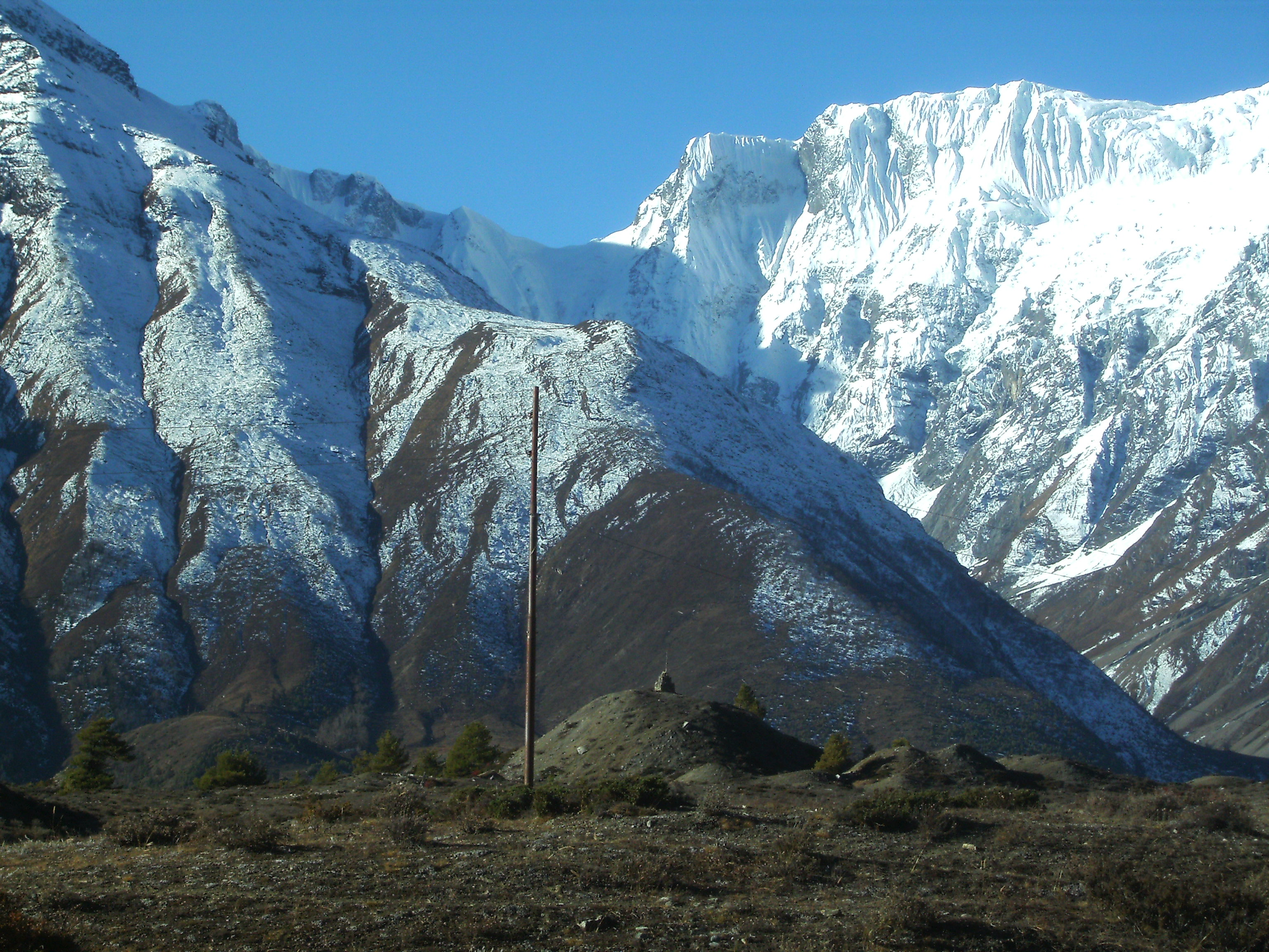
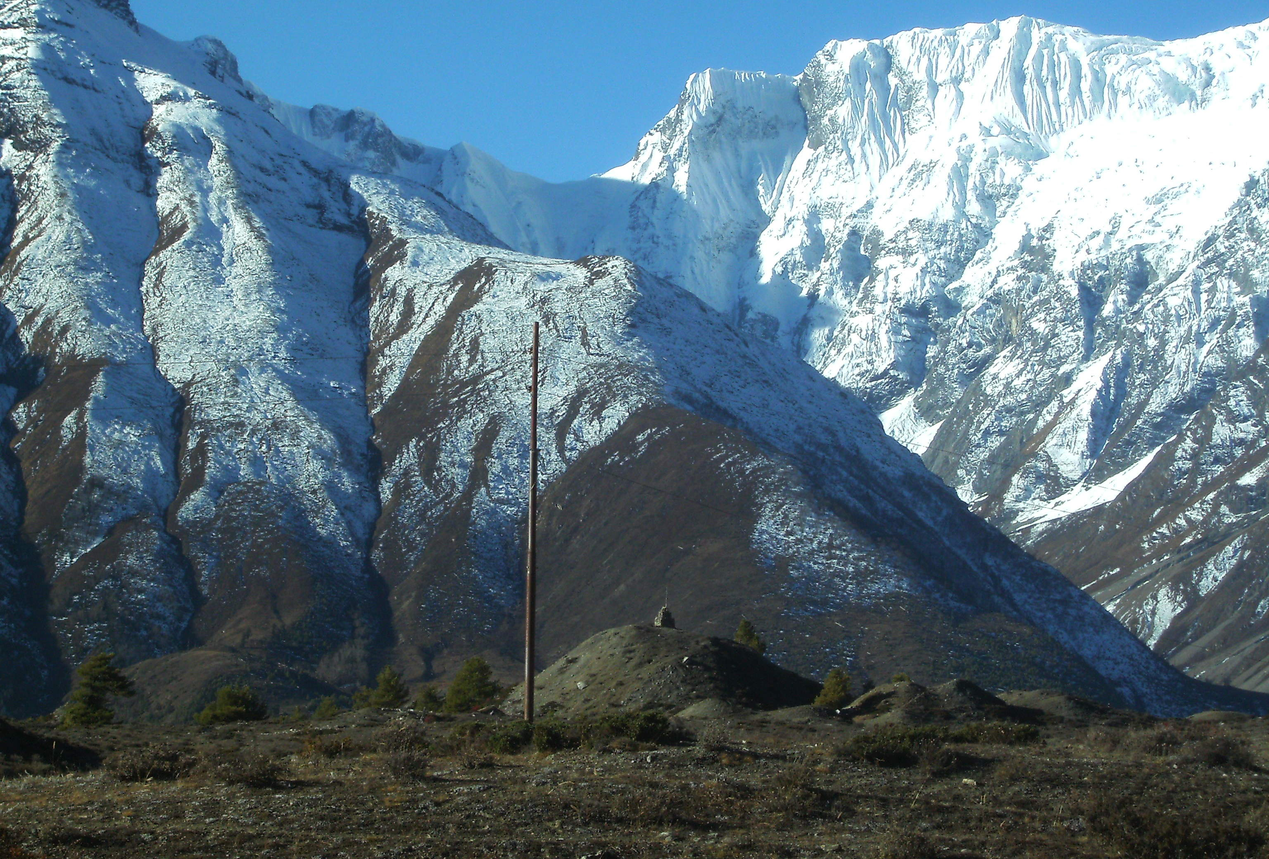
compressed the larger bg-images to sizes below 1Mb

diff --git a/photomap/static/js/main/panel.js b/photomap/static/js/main/panel.js
@@ -43,9 +43,7 @@ function bindUserMenuListener () {
        toggle = function () {
           $menu.toggle("slide", { direction : "down" });   
        };
-   console.log(menuHeight);
-   console.log(offset);
-   console.log(offset.top - menuHeight);
+       
    // user is logged in
    if ($user.size() === 1) {
       setFontSizeInVH($user, 2);
@@ -59,7 +57,6 @@ function bindUserMenuListener () {
             top : offset.top - menuHeight - 3, // -5 => due to negative margin of $user button
             left : offset.left
          });
-      console.log($menu.offset().top);
 
       $user
          .button({ icons : { primary : "ui-icon-triangle-1-n" } })
